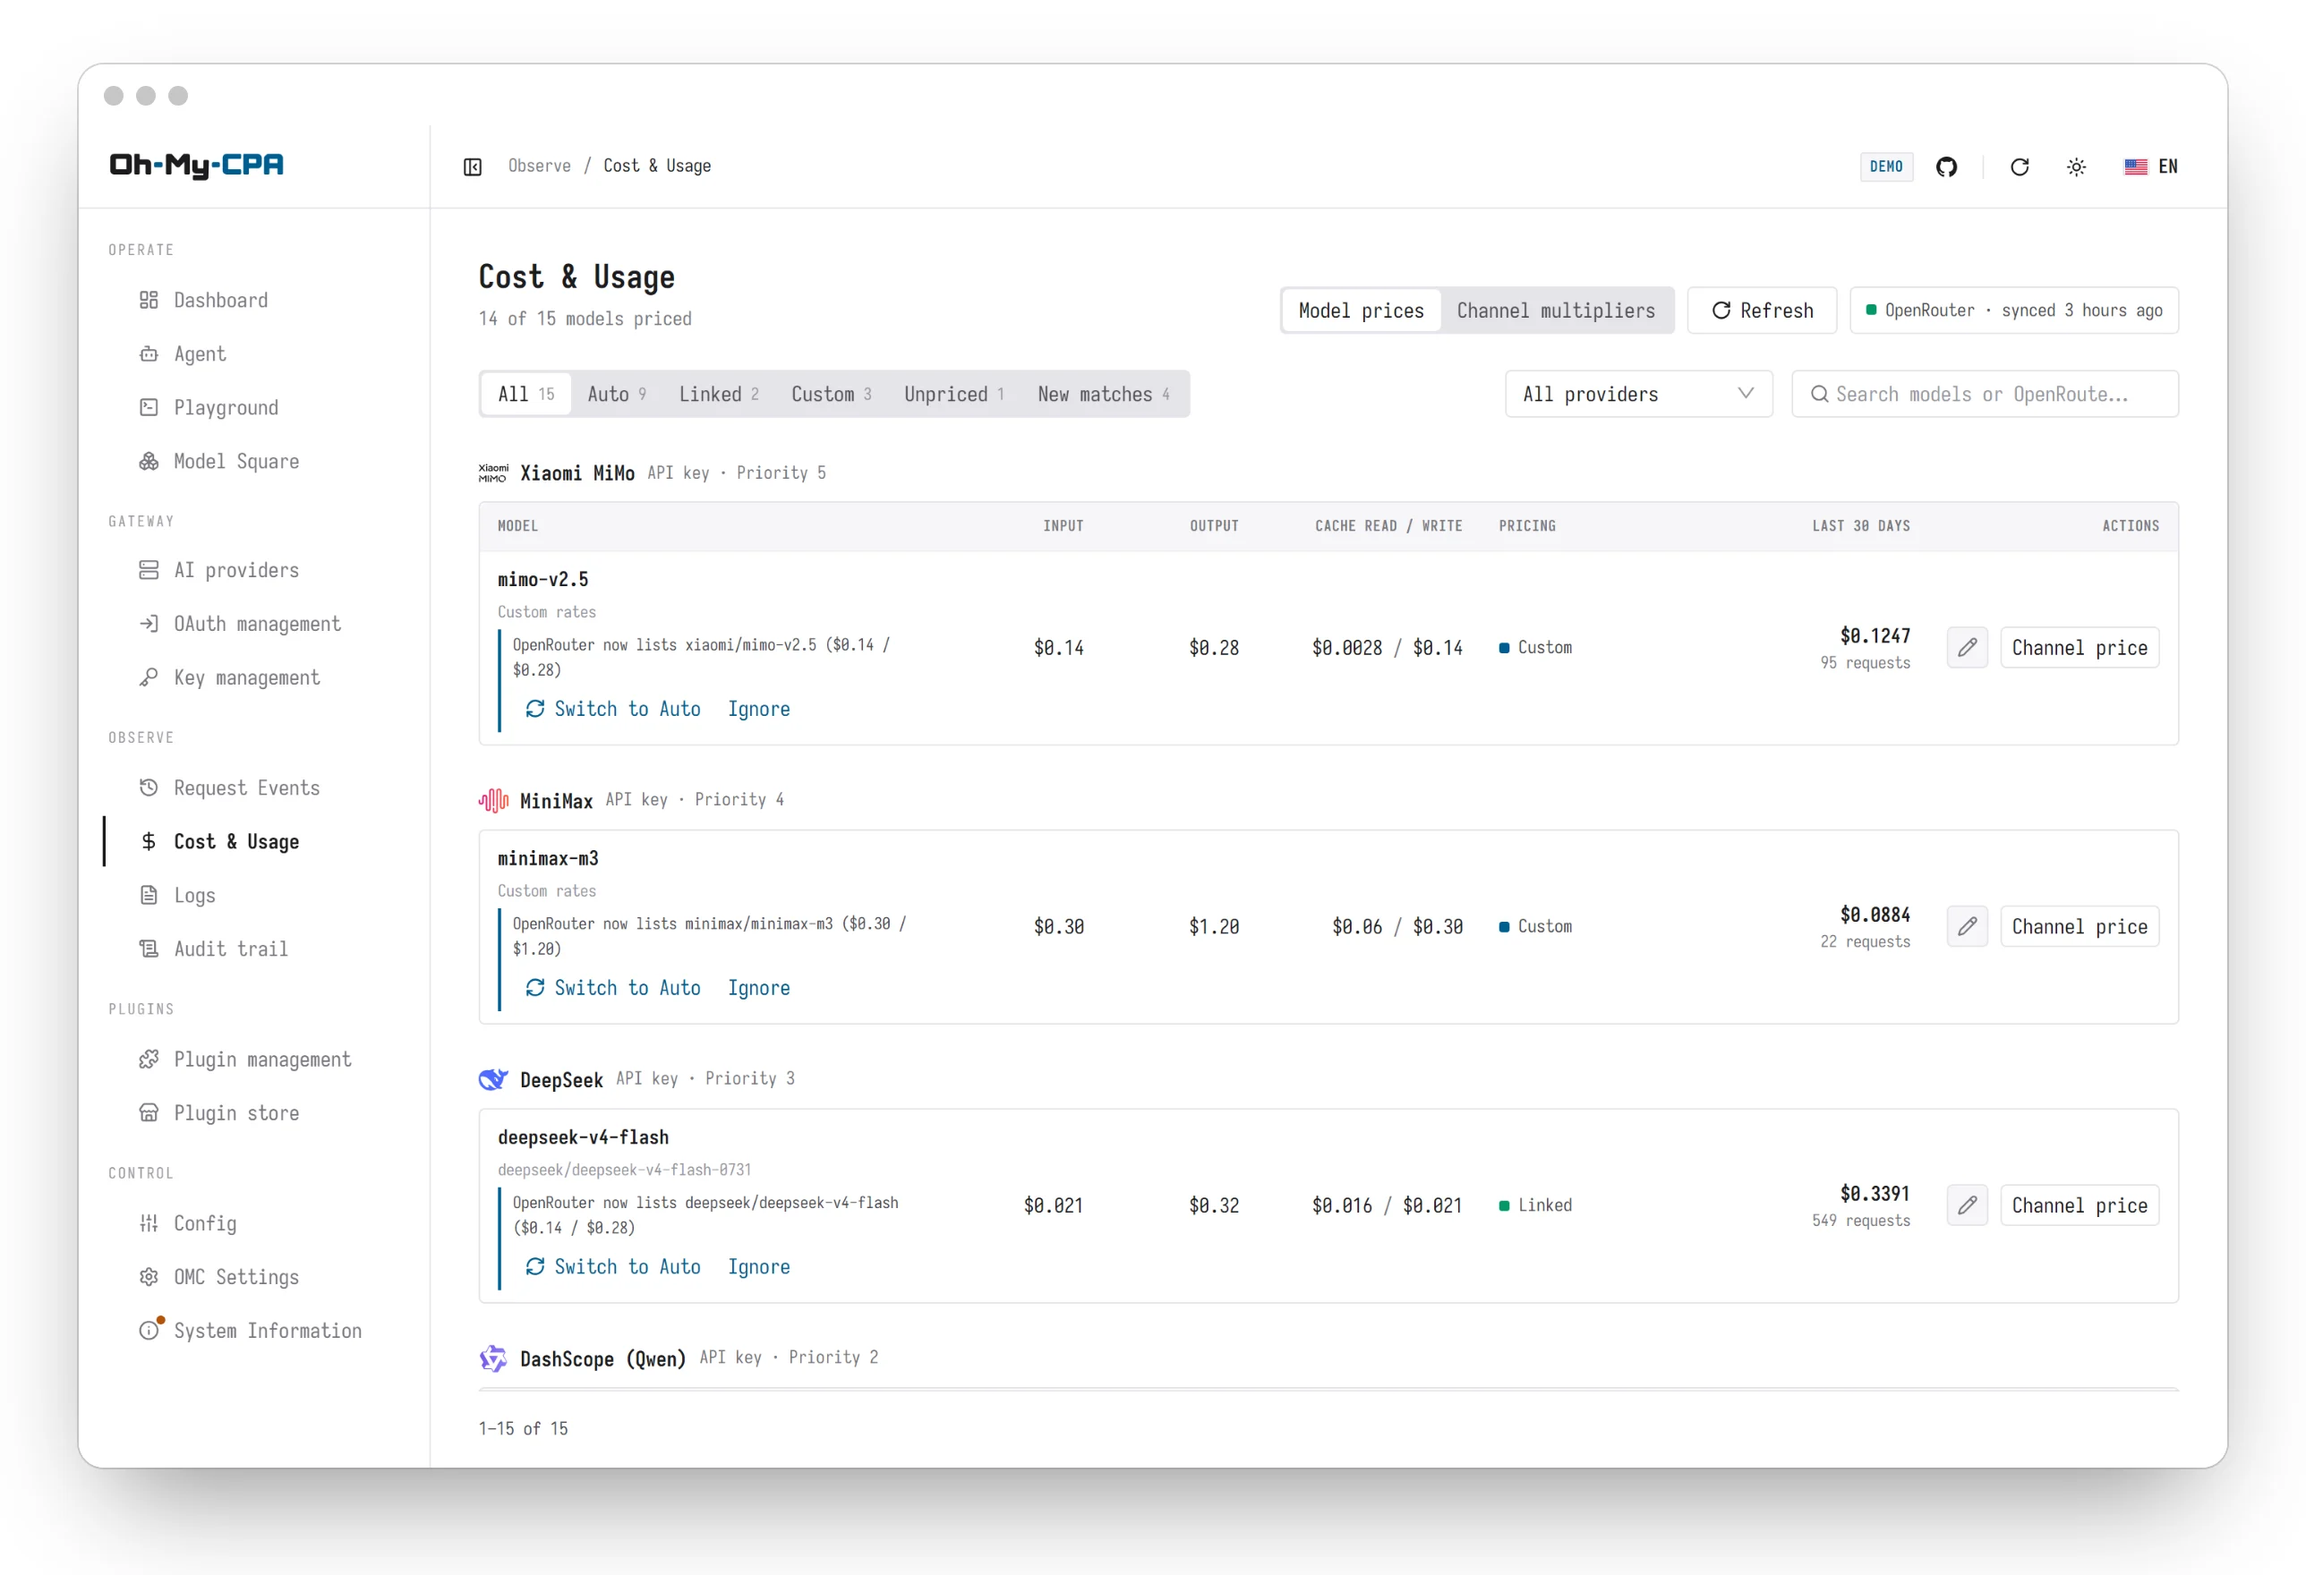
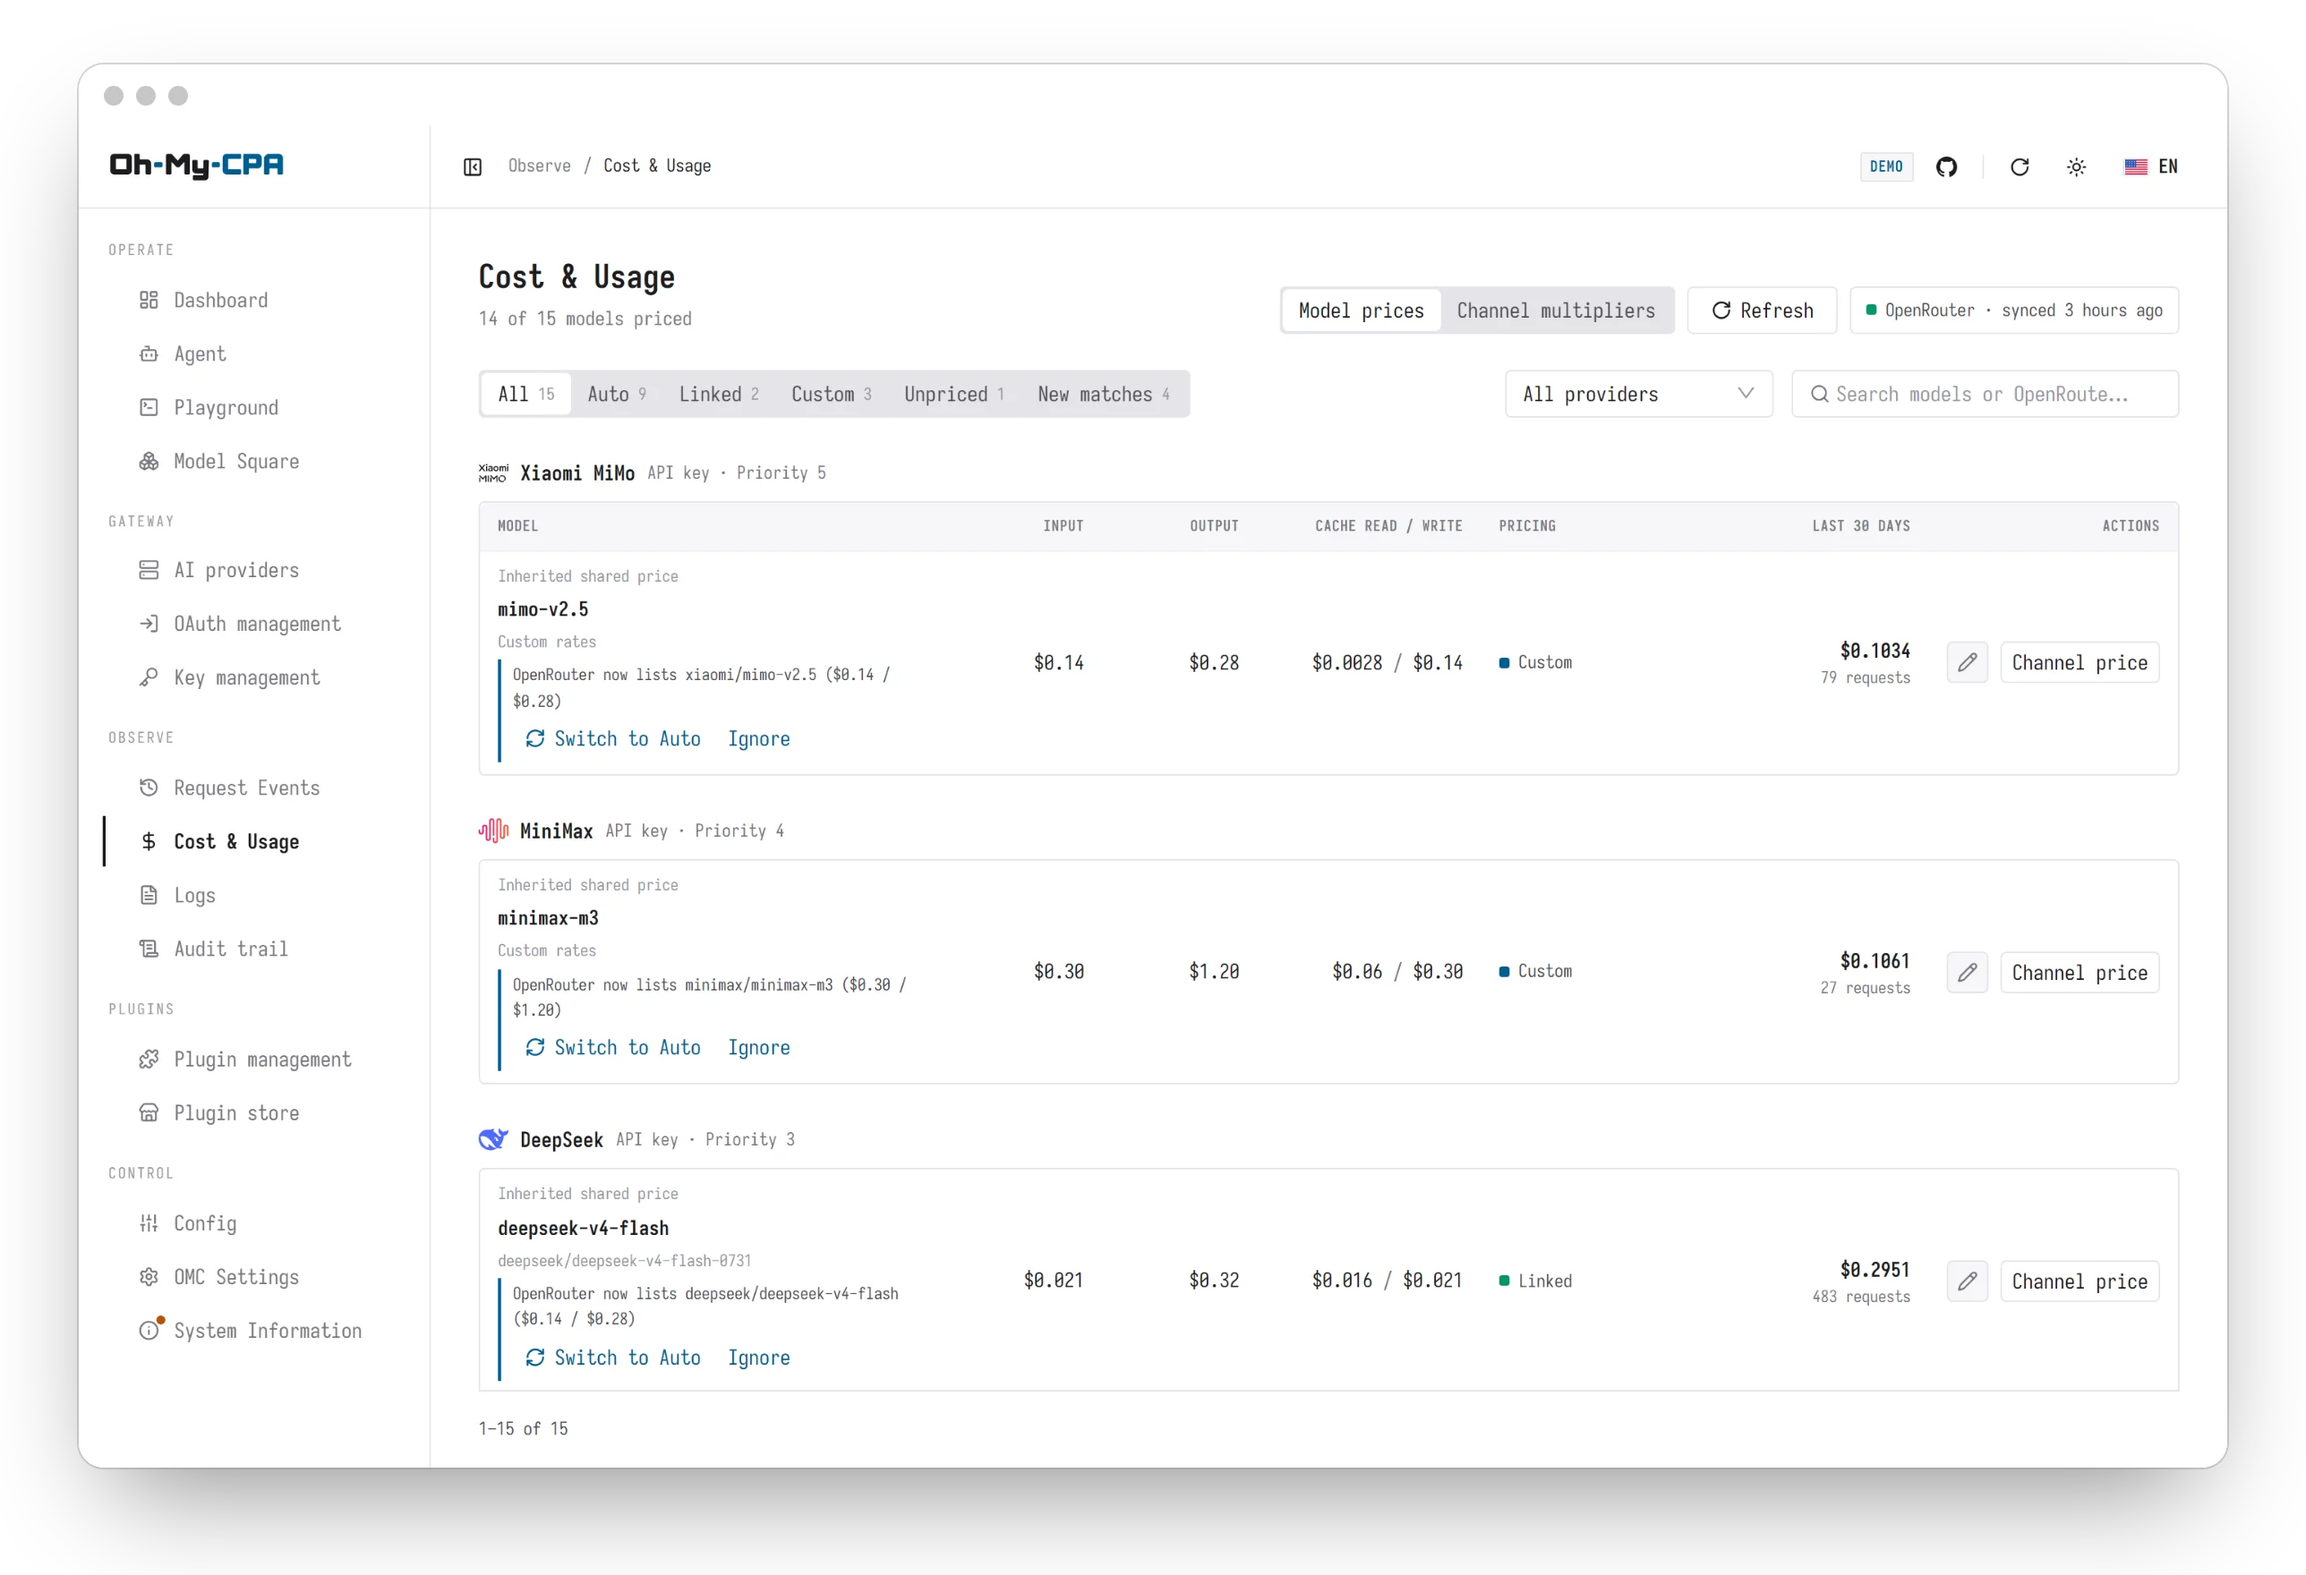
fix(pricing): show one effective price per provider model

diff --git a/web/src/pages/pricing/PricingPage.tsx b/web/src/pages/pricing/PricingPage.tsx
@@ -226,18 +226,17 @@ export const PricingPage: React.FC = () => {
 
   const allGroups = React.useMemo(() => groupPricingModels(rows, data?.providers ?? []).map(group => ({
     ...group,
-    rows: group.rows.flatMap((row): BookRow[] => {
+    rows: group.rows.map((row): BookRow => {
       const channel = group.provider?.channel;
       const override = data?.channel_models?.find(price => price.channel === channel && price.model === row.model);
-      const shared = { ...row, targetChannel: channel, channelLabel: group.provider?.name };
       return override
-        ? [shared, { ...override, rowKind: 'priced', usage_30d: row.usage_30d, channelLabel: group.provider?.name }]
-        : [shared];
+        ? { ...override, rowKind: 'priced', usage_30d: row.usage_30d, channelLabel: group.provider?.name }
+        : { ...row, targetChannel: channel, channelLabel: group.provider?.name };
     }),
   })), [rows, data?.providers, data?.channel_models]);
 
   const counts = React.useMemo(() => {
-    const scopedRows = [...new Map(allGroups.flatMap(group => group.rows).map(row => [JSON.stringify([row.channel, row.model]), row])).values()];
+    const scopedRows = allGroups.flatMap(group => group.rows);
     const result: Record<ModelFilter, number> = { all: scopedRows.length, auto: 0, linked: 0, custom: 0, unpriced: 0, candidates: 0 };
     scopedRows.forEach((row) => {
       result[rowMode(row)] += 1;
@@ -282,6 +281,7 @@ export const PricingPage: React.FC = () => {
         <div className={styles['model-cell']}>
           <div className={styles['model-text']}>
             {row.channel && <span className={styles['model-sub']}>{t('pricing.scope.channel')} · {row.channelLabel || row.channel}</span>}
+            {row.targetChannel && row.rowKind === 'priced' && <span className={styles['model-sub']}>{t('pricing.scope.inherited')}</span>}
             <span className={styles['model-name']} title={row.model}>{pricingModelIdentity(row.model).label}</span>
             {row.rowKind === 'priced' ? (
               <span className={styles['model-sub']}>
@@ -401,13 +401,16 @@ export const PricingPage: React.FC = () => {
           {row.targetChannel && <Button size="small" onClick={() => openEditor?.(row.model, { channel: row.targetChannel, channelLabel: row.channelLabel })} data-testid="pricing-channel-model-edit">
             {t('pricing.scope.channel')}
           </Button>}
+          {row.channel && <Button size="small" onClick={() => openEditor?.(row.model)} data-testid="pricing-shared-model-edit">
+            {t('pricing.scope.shared')}
+          </Button>}
         </div>
       ),
     },
   ];
 
-  const modelTotal = rows.length;
-  const pricedTotal = data?.models.length ?? 0;
+  const modelTotal = counts.all;
+  const pricedTotal = counts.all - counts.unpriced;
   const subtitle = data
     ? t('pricing.coverage', { priced: pricedTotal, total: modelTotal })
     : undefined;

diff --git a/web/src/i18n/index.tsx b/web/src/i18n/index.tsx
@@ -10,6 +10,8 @@ export type { Lang } from './language';
  */
 const DICT: Record<string, [string, string]> = {
   'pricing.scope.channel': ['渠道价', 'Channel price'],
+  'pricing.scope.shared': ['通用价', 'Shared price'],
+  'pricing.scope.inherited': ['沿用通用价格', 'Inherited shared price'],
   'pricing.editor.channel_scope': ['正在设置 {channel} 的专属价格', 'Custom price for {channel}'],
   'pricing.editor.channel_hint': ['仅影响此渠道的该模型；渠道倍率仍会生效。未设置专属价格时沿用通用价格。', 'Applies only to this model on this channel; the channel multiplier still applies. Without an override, the shared price is used.'],
   'pricing.editor.restore_shared': ['恢复通用价格', 'Use shared price'],

diff --git a/web/src/i18n/locales/ms.ts b/web/src/i18n/locales/ms.ts
@@ -5,6 +5,8 @@
  */
 export const MS: Readonly<Record<string, string>> = {
   "pricing.scope.channel": "Harga saluran",
+  "pricing.scope.shared": "Harga bersama",
+  "pricing.scope.inherited": "Menggunakan harga bersama",
   "pricing.editor.channel_scope": "Harga tersuai untuk {channel}",
   "pricing.editor.channel_hint": "Hanya untuk model ini pada saluran ini; pengganda saluran masih digunakan. Tanpa harga tersuai, harga bersama digunakan.",
   "pricing.editor.restore_shared": "Guna harga bersama",

diff --git a/web/src/i18n/locales/zh-Hant.ts b/web/src/i18n/locales/zh-Hant.ts
@@ -5,6 +5,8 @@
  */
 export const ZH_HANT: Readonly<Record<string, string>> = {
   "pricing.scope.channel": "渠道價",
+  "pricing.scope.shared": "通用價",
+  "pricing.scope.inherited": "沿用通用價格",
   "pricing.editor.channel_scope": "正在設定 {channel} 的專屬價格",
   "pricing.editor.channel_hint": "僅影響此渠道的該模型；渠道倍率仍會生效。未設定專屬價格時沿用通用價格。",
   "pricing.editor.restore_shared": "恢復通用價格",

diff --git a/docs/plans/model-prices.md b/docs/plans/model-prices.md
@@ -268,7 +268,7 @@ Model membership is collected during the same complete CPA catalog sweep as alia
 
 `GET /v1/pricing` includes `providers`, with id, family, display name, channel, priority, OAuth marker, model membership, an optional icon override and a hostname-only endpoint hint for the existing provider icon resolver. URL userinfo, paths and query parameters are excluded. The facade resolves current provider name/icon preferences at read time; the frontend uses the same default provider marks and plugin-owned logos as provider management. Individual model names are text-only; `pricingModelIdentity` is the metadata extension point.
 
-Groups sort by descending routing priority, then natural provider name and stable id. Models sort naturally by name, case-insensitively first and uppercase first for case-only ties. Membership uses exact model identities: two names differing only in case remain distinct. Shared-price rows retain their global edit action and offer a separate channel-price action. Existing channel overrides appear as labelled rows beside their shared model. Usage beside these rows remains the model's deployment-wide 30-day usage. Models without recorded membership appear in an explicit unconfirmed group rather than a guessed maker group.
+Groups sort by descending routing priority, then natural provider name and stable id. Models sort naturally by name, case-insensitively first and uppercase first for case-only ties. Membership uses exact model identities: two names differing only in case remain distinct. Each provider/model membership has one row showing its channel override when configured, otherwise the shared price. Priced rows label channel-specific or inherited shared pricing and retain separate editing actions for both scopes. Coverage and mode counts use these effective membership rows, including models priced only on a channel. Usage beside these rows remains the model's deployment-wide 30-day usage. Models without recorded membership appear in an explicit unconfirmed group rather than a guessed maker group.
 
 Search, price-mode filters and a provider selector operate on the grouped book. One global page renders at most 20 membership rows across all groups on desktop and phones. Unpriced models occupy their normal sorted position and show any suggested link beside their name. The OpenRouter picker searches ids, canonical slugs and display names with separator-tolerant search; it paginates all matches in groups of 12 instead of truncating the catalog. Channel multipliers use 20-row pages and reuse known provider aliases/icons; a channel shared by several configured providers names those providers together.
 

diff --git a/docs/adr/0101-channel-model-prices.md b/docs/adr/0101-channel-model-prices.md
@@ -31,7 +31,9 @@ The existing model editor endpoints take an optional channel query parameter.
 Channel writes require persisted provider membership and custom mode. Shared
 automatic prices, operator links and custom prices continue to work unchanged.
 Model Square resolves explicit routes and offers every distinct channel/model
-target. The price book keeps shared editing and adds labelled channel overrides.
+target. The price book shows one effective price per provider/model membership,
+labels channel overrides and inherited shared prices, and keeps editing for both
+scopes accessible from that row.
 
 ## Consequences
 
